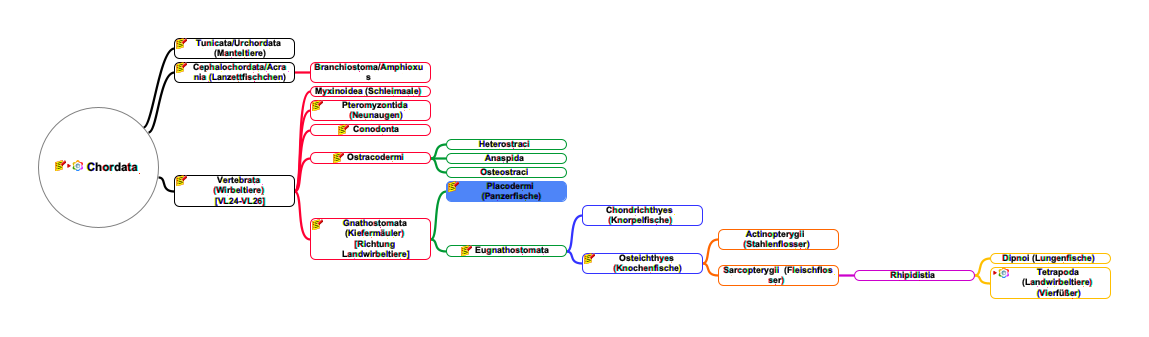
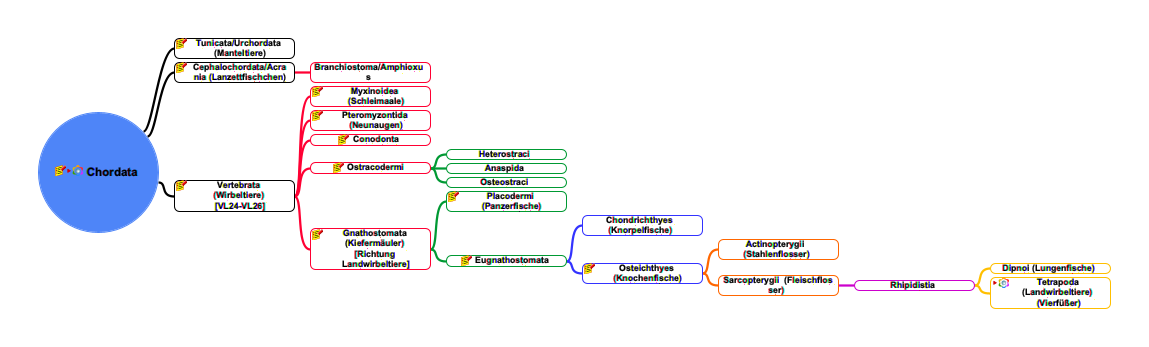
update myxinoidea

Changed region(s): [[0.0305, 0.089, 0.9748, 0.8902]]

diff --git a/metazoa/deuterostomia/chordata/index.html b/metazoa/deuterostomia/chordata/index.html
@@ -40,7 +40,7 @@
       style="margin-bottom:10px; &#9;border: 0px; &#9;text-align:center; &#9;vertical-align:center;" alt="Imagemap"
       usemap="#fm_imagemap" />
   </div><map name="fm_imagemap" id="fm_imagemap"><area shape="rect" href="../index.html" alt="Chordata" title="Chordata"
-      coords="38,107,159,228" />
+      coords="38,112,159,233" />
     <area shape="rect" href="#FMID_417817526FM" alt="Tunicata/Urchordata (Manteltiere)"
       title="Tunicata/Urchordata (Manteltiere)" coords="174,38,295,59" />
     <area shape="rect" href="#FMID_1924353980FM" alt="Cephalochordata/Acrania (Lanzettfischche ..."
@@ -48,35 +48,35 @@
     <area shape="rect" href="#FMID_1844487085FM" alt="Branchiostoma/Amphioxus" title="Branchiostoma/Amphioxus"
       coords="310,62,431,83" />
     <area shape="rect" href="#FMID_1183533052FM" alt="Vertebrata (Wirbeltiere) [VL24-VL26]"
-      title="Vertebrata (Wirbeltiere) [VL24-VL26]" coords="174,175,295,207" />
+      title="Vertebrata (Wirbeltiere) [VL24-VL26]" coords="174,180,295,212" />
     <area shape="rect" href="#FMID_508709134FM" alt="Myxinoidea (Schleimaale)" title="Myxinoidea (Schleimaale)"
-      coords="310,86,431,97" />
+      coords="310,86,431,107" />
     <area shape="rect" href="#FMID_1242293693FM" alt="Pteromyzontida (Neunaugen)" title="Pteromyzontida (Neunaugen)"
-      coords="310,100,431,121" />
-    <area shape="rect" href="#FMID_1117305535FM" alt="Conodonta" title="Conodonta" coords="310,124,431,136" />
-    <area shape="rect" href="#FMID_1485586225FM" alt="Ostracodermi" title="Ostracodermi" coords="310,152,431,164" />
-    <area shape="rect" href="#FMID_1368822006FM" alt="Heterostraci" title="Heterostraci" coords="446,139,567,150" />
-    <area shape="rect" href="#FMID_1967314772FM" alt="Anaspida" title="Anaspida" coords="446,153,567,164" />
-    <area shape="rect" href="#FMID_314662628FM" alt="Osteostraci" title="Osteostraci" coords="446,167,567,178" />
+      coords="310,110,431,131" />
+    <area shape="rect" href="#FMID_1117305535FM" alt="Conodonta" title="Conodonta" coords="310,134,431,146" />
+    <area shape="rect" href="#FMID_1485586225FM" alt="Ostracodermi" title="Ostracodermi" coords="310,162,431,174" />
+    <area shape="rect" href="#FMID_1368822006FM" alt="Heterostraci" title="Heterostraci" coords="446,149,567,160" />
+    <area shape="rect" href="#FMID_1967314772FM" alt="Anaspida" title="Anaspida" coords="446,163,567,174" />
+    <area shape="rect" href="#FMID_314662628FM" alt="Osteostraci" title="Osteostraci" coords="446,177,567,188" />
     <area shape="rect" href="#FMID_1177185343FM" alt="Gnathostomata (Kieferm&auml;uler) [Richtung L ..."
-      title="Gnathostomata (Kieferm&auml;uler) [Richtung L ..." coords="310,218,431,260" />
+      title="Gnathostomata (Kieferm&auml;uler) [Richtung L ..." coords="310,228,431,270" />
     <area shape="rect" href="#FMID_325536911FM" alt="Placodermi (Panzerfische)" title="Placodermi (Panzerfische)"
-      coords="446,181,567,202" />
+      coords="446,191,567,212" />
     <area shape="rect" href="#FMID_1454898410FM" alt="Eugnathostomata" title="Eugnathostomata"
-      coords="446,245,567,257" />
+      coords="446,255,567,267" />
     <area shape="rect" href="#FMID_1600360816FM" alt="Chondrichthyes (Knorpelfische)"
-      title="Chondrichthyes (Knorpelfische)" coords="582,205,703,226" />
+      title="Chondrichthyes (Knorpelfische)" coords="582,215,703,236" />
     <area shape="rect" href="#FMID_1798992921FM" alt="Osteichthyes (Knochenfische)" title="Osteichthyes (Knochenfische)"
-      coords="582,253,703,274" />
+      coords="582,263,703,284" />
     <area shape="rect" href="#FMID_1915163049FM" alt="Actinopterygii (Stahlenflosser)"
-      title="Actinopterygii (Stahlenflosser)" coords="718,229,839,250" />
+      title="Actinopterygii (Stahlenflosser)" coords="718,239,839,260" />
     <area shape="rect" href="#FMID_194317094FM" alt=" Sarcopterygii  (Fleischflosser)"
-      title=" Sarcopterygii  (Fleischflosser)" coords="718,265,839,286" />
-    <area shape="rect" href="#FMID_360376085FM" alt="Rhipidistia" title="Rhipidistia" coords="854,270,975,281" />
+      title=" Sarcopterygii  (Fleischflosser)" coords="718,275,839,296" />
+    <area shape="rect" href="#FMID_360376085FM" alt="Rhipidistia" title="Rhipidistia" coords="854,280,975,291" />
     <area shape="rect" href="#FMID_1509500204FM" alt="Dipnoi (Lungenfische)" title="Dipnoi (Lungenfische)"
-      coords="990,253,1111,264" />
-    <area shape="rect" href="tetrapoda/index.html" alt="Tetrapoda (Landwirbeltiere) (Vierf&uuml;&szlig;er)"
-      title="Tetrapoda (Landwirbeltiere) (Vierf&uuml;&szlig;er)" coords="990,267,1111,299" />
+      coords="990,263,1111,274" />
+    <area shape="rect" href="#FMID_1379829664FM" alt="Tetrapoda (Landwirbeltiere) (Vierf&uuml;&szlig;er)"
+      title="Tetrapoda (Landwirbeltiere) (Vierf&uuml;&szlig;er)" coords="990,277,1111,309" />
   </map>
 
   <div class="node"><img src="index.html_files/hide.png" class="hideshow" alt="hide"
@@ -231,6 +231,16 @@
               id="FMID_508709134FM" />
             <div class="nodecontent" style="color:#000000;font-size:75%;font-weight:bold;">Myxinoidea (Schleimaale)
             </div>
+            <div class="note-and-attributes"><span class="note">
+                <ul>
+                  <li>
+                    Neural crest cells, horn-like teeth
+                  </li>
+                  <li>
+                    primitive fin-muscles
+                  </li>
+                </ul>
+              </span></div>
           </div>
           <div class="node"><img src="index.html_files/leaf.png" class="hideshow" alt="leaf" /><a
               id="FMID_1242293693FM" />
@@ -256,7 +266,7 @@
               </span></div>
           </div>
           <div class="node"><img src="index.html_files/hide.png" class="hideshow" alt="hide"
-              onClick="toggle(&quot;N66548&quot;)" id="imgN66548" /><a id="FMID_1485586225FM" />
+              onClick="toggle(&quot;N66570&quot;)" id="imgN66570" /><a id="FMID_1485586225FM" />
             <div class="nodecontent" style="color:#000000;font-size:75%;font-weight:bold;">Ostracodermi</div>
             <div class="note-and-attributes"><span class="note">
                 <ul>
@@ -265,7 +275,7 @@
                   </li>
                 </ul>
               </span></div>
-            <div class="content" id="N66548">
+            <div class="content" id="N66570">
               <div class="node"><img src="index.html_files/leaf.png" class="hideshow" alt="leaf" /><a
                   id="FMID_1368822006FM" />
                 <div class="nodecontent" style="color:#000000;font-size:75%;font-weight:bold;">Heterostraci</div>
@@ -281,7 +291,7 @@
             </div>
           </div>
           <div class="node"><img src="index.html_files/hide.png" class="hideshow" alt="hide"
-              onClick="toggle(&quot;N66719&quot;)" id="imgN66719" /><a id="FMID_1177185343FM" />
+              onClick="toggle(&quot;N66741&quot;)" id="imgN66741" /><a id="FMID_1177185343FM" />
             <div class="nodecontent" style="color:#000000;font-size:75%;font-weight:bold;">Gnathostomata (Kiefermäuler)
               [Richtung Landwirbeltiere]</div>
             <div class="note-and-attributes"><span class="note">
@@ -298,7 +308,7 @@
                   </li>
                 </ul>
               </span></div>
-            <div class="content" id="N66719">
+            <div class="content" id="N66741">
               <div class="node"><img src="index.html_files/leaf.png" class="hideshow" alt="leaf" /><a
                   id="FMID_325536911FM" />
                 <div class="nodecontent" style="color:#000000;font-size:75%;font-weight:bold;">Placodermi (Panzerfische)
@@ -318,7 +328,7 @@
                   </span></div>
               </div>
               <div class="node"><img src="index.html_files/hide.png" class="hideshow" alt="hide"
-                  onClick="toggle(&quot;N66844&quot;)" id="imgN66844" /><a id="FMID_1454898410FM" />
+                  onClick="toggle(&quot;N66866&quot;)" id="imgN66866" /><a id="FMID_1454898410FM" />
                 <div class="nodecontent" style="color:#000000;font-size:75%;font-weight:bold;">Eugnathostomata</div>
                 <div class="note-and-attributes"><span class="note">
                     <ul>
@@ -340,14 +350,14 @@
                       </li>
                     </ul>
                   </span></div>
-                <div class="content" id="N66844">
+                <div class="content" id="N66866">
                   <div class="node"><img src="index.html_files/leaf.png" class="hideshow" alt="leaf" /><a
                       id="FMID_1600360816FM" />
                     <div class="nodecontent" style="color:#000000;font-size:75%;font-weight:bold;">Chondrichthyes
                       (Knorpelfische)</div>
                   </div>
                   <div class="node"><img src="index.html_files/hide.png" class="hideshow" alt="hide"
-                      onClick="toggle(&quot;N66950&quot;)" id="imgN66950" /><a id="FMID_1798992921FM" />
+                      onClick="toggle(&quot;N66972&quot;)" id="imgN66972" /><a id="FMID_1798992921FM" />
                     <div class="nodecontent" style="color:#000000;font-size:75%;font-weight:bold;">Osteichthyes
                       (Knochenfische)</div>
                     <div class="note-and-attributes"><span class="note">
@@ -365,22 +375,22 @@
                           </li>
                         </ul>
                       </span></div>
-                    <div class="content" id="N66950">
+                    <div class="content" id="N66972">
                       <div class="node"><img src="index.html_files/leaf.png" class="hideshow" alt="leaf" /><a
                           id="FMID_1915163049FM" />
                         <div class="nodecontent" style="color:#000000;font-size:75%;font-weight:bold;">Actinopterygii
                           (Stahlenflosser)</div>
                       </div>
                       <div class="node"><img src="index.html_files/hide.png" class="hideshow" alt="hide"
-                          onClick="toggle(&quot;N67050&quot;)" id="imgN67050" /><a id="FMID_194317094FM" />
+                          onClick="toggle(&quot;N67072&quot;)" id="imgN67072" /><a id="FMID_194317094FM" />
                         <div class="nodecontent" style="color:#000000;font-size:75%;font-weight:bold;"> Sarcopterygii
                           (Fleischflosser)</div>
-                        <div class="content" id="N67050">
+                        <div class="content" id="N67072">
                           <div class="node"><img src="index.html_files/hide.png" class="hideshow" alt="hide"
-                              onClick="toggle(&quot;N67087&quot;)" id="imgN67087" /><a id="FMID_360376085FM" />
+                              onClick="toggle(&quot;N67109&quot;)" id="imgN67109" /><a id="FMID_360376085FM" />
                             <div class="nodecontent" style="color:#000000;font-size:75%;font-weight:bold;">Rhipidistia
                             </div>
-                            <div class="content" id="N67087">
+                            <div class="content" id="N67109">
                               <div class="node"><img src="index.html_files/leaf.png" class="hideshow" alt="leaf" /><a
                                   id="FMID_1509500204FM" />
                                 <div class="nodecontent" style="color:#000000;font-size:75%;font-weight:bold;">Dipnoi

diff --git a/metazoa/deuterostomia/chordata/index.mm b/metazoa/deuterostomia/chordata/index.mm
@@ -175,8 +175,25 @@
     </ul>
   </body>
 </html></richcontent>
-<node TEXT="Myxinoidea (Schleimaale)" ID="ID_508709134" CREATED="1645394475180" MODIFIED="1645395867317" COLOR="#000000">
+<node TEXT="Myxinoidea (Schleimaale)" ID="ID_508709134" CREATED="1645394475180" MODIFIED="1645713730550" COLOR="#000000">
 <font BOLD="true" ITALIC="false"/>
+<richcontent TYPE="NOTE" CONTENT-TYPE="xml/">
+<html>
+  <head>
+    
+  </head>
+  <body>
+    <ul>
+      <li>
+        Neural crest cells, horn-like teeth
+      </li>
+      <li>
+        primitive fin-muscles
+      </li>
+    </ul>
+  </body>
+</html>
+</richcontent>
 </node>
 <node TEXT="Pteromyzontida (Neunaugen)" ID="ID_1242293693" CREATED="1645394475180" MODIFIED="1645395867317" COLOR="#000000">
 <font BOLD="true" ITALIC="false"/>
